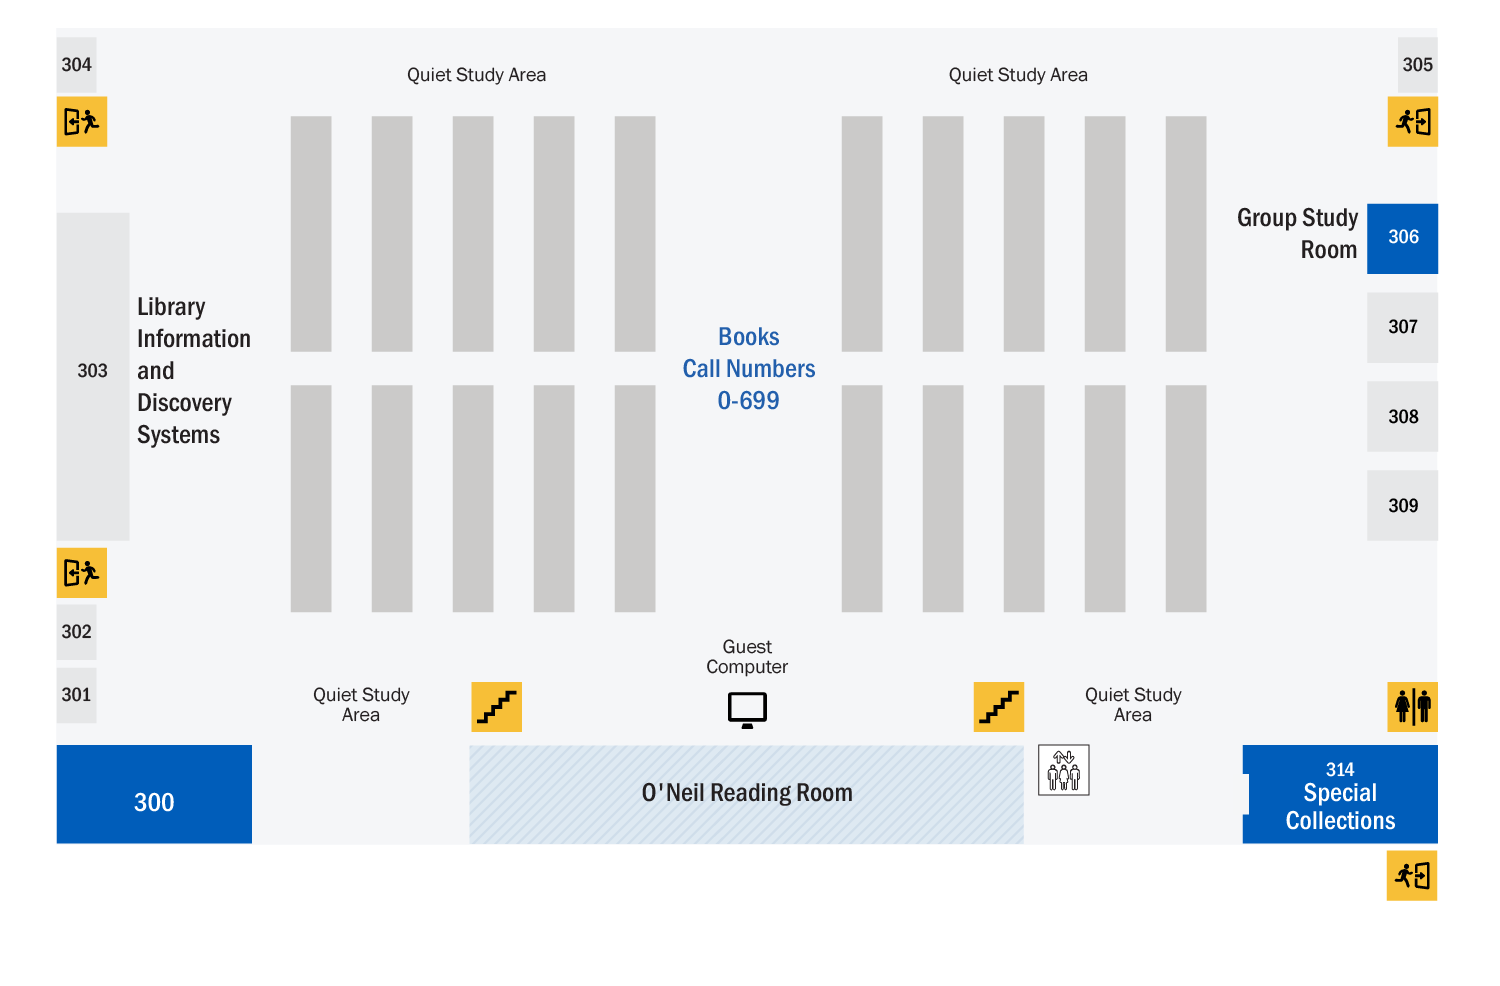
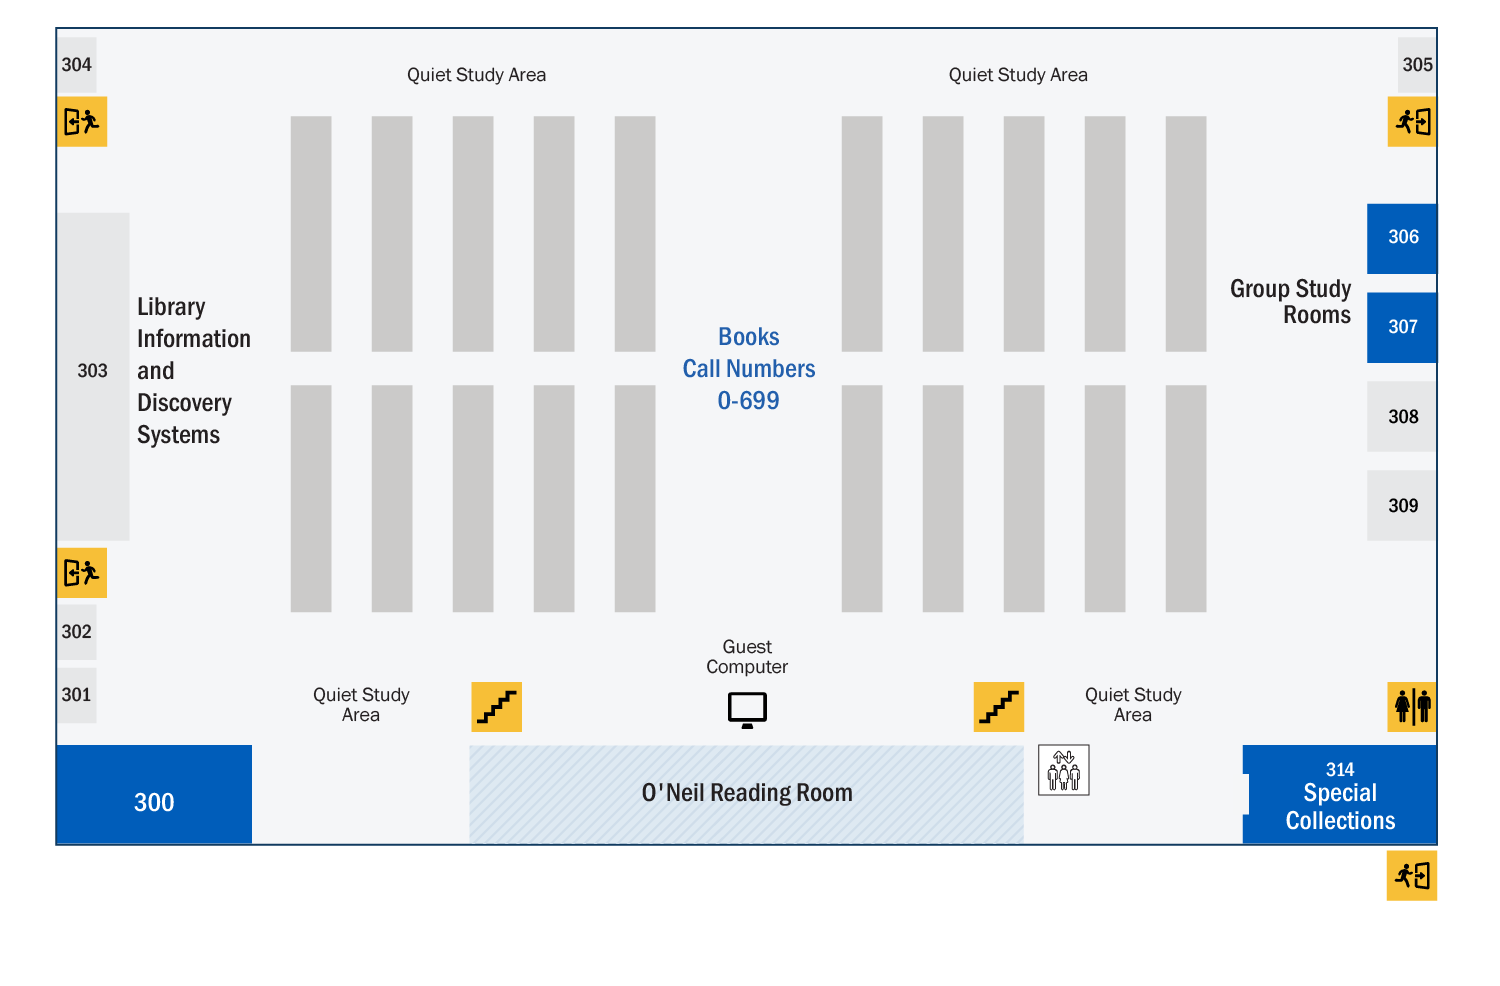
add 307 to group study

Changed region(s): [[0.828, 0.213, 0.9813, 0.3651]]

diff --git a/maps.html b/maps.html
@@ -117,7 +117,7 @@
                 <map name="third" id="third">
 					<area shape="rect" coords="58,745,248,842" href="#/" title="jtr300" alt="Room 300" id="3_300room">
 					<area shape="rect" coords="1246,749,1436,844" href="#/" title="specialcollections" alt="Special Collections" id="3_specialcollections">
-                    <area shape="rect" coords="1371,203,1437,274" href="#/" title="groupstudy3" alt="Group Study Rooms" id="groupstudyrooms">
+                    <area shape="rect" coords="1225,210,1438,366" href="#/" title="groupstudy3" alt="Group Study Rooms" id="groupstudyrooms">
                 </map>
 			</div>
 
